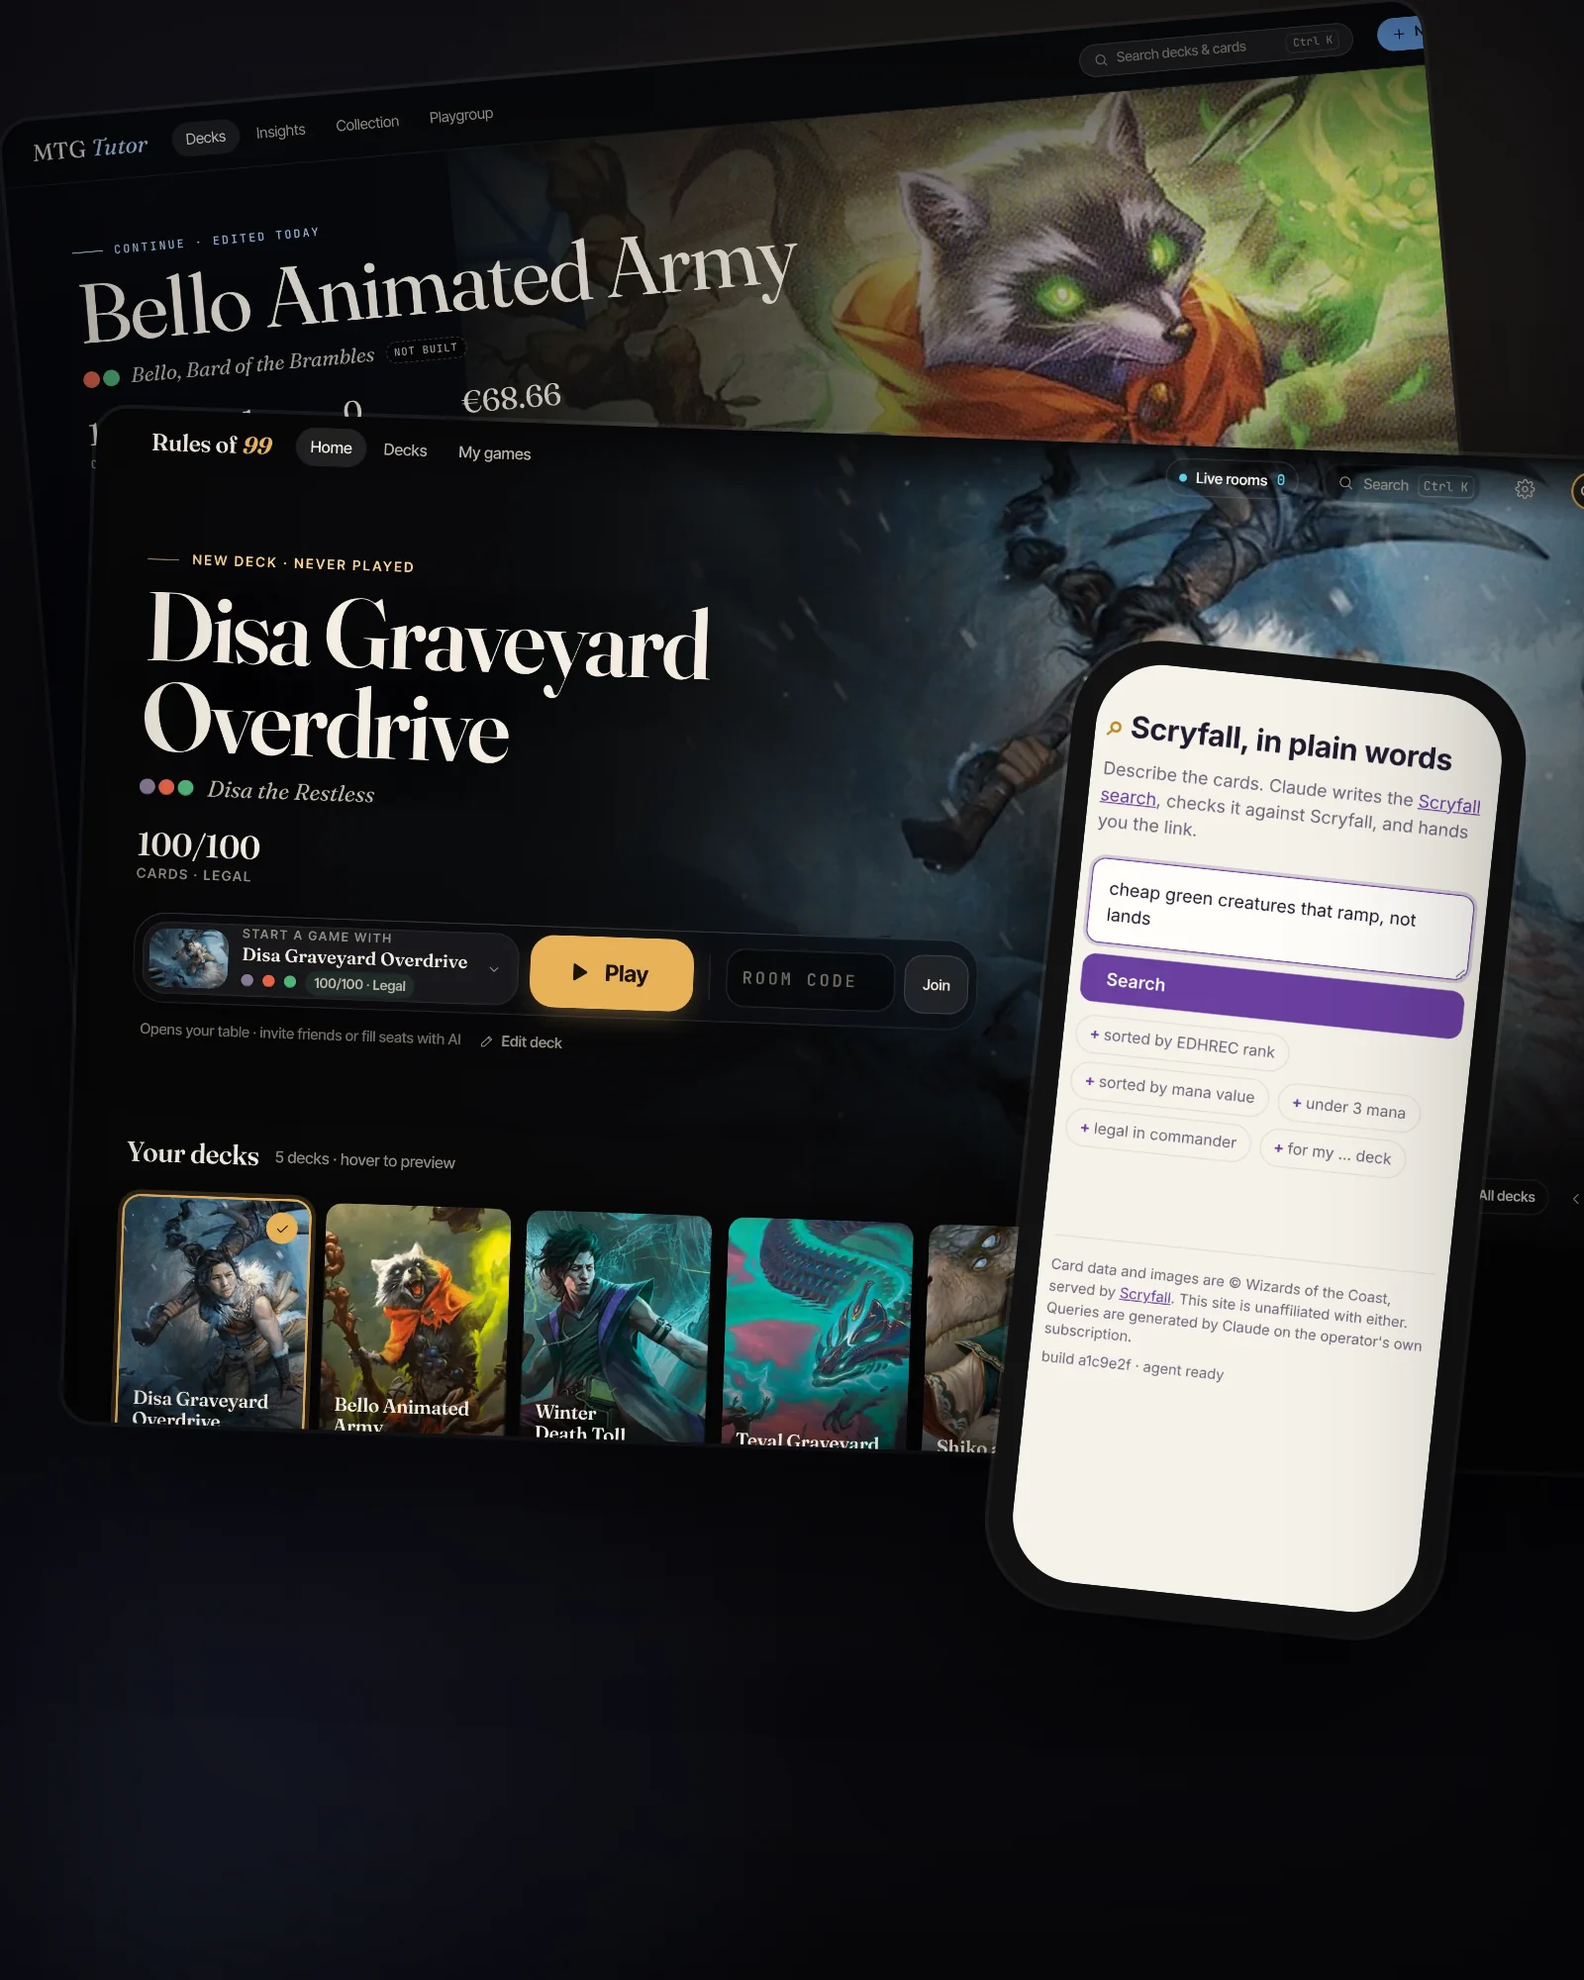
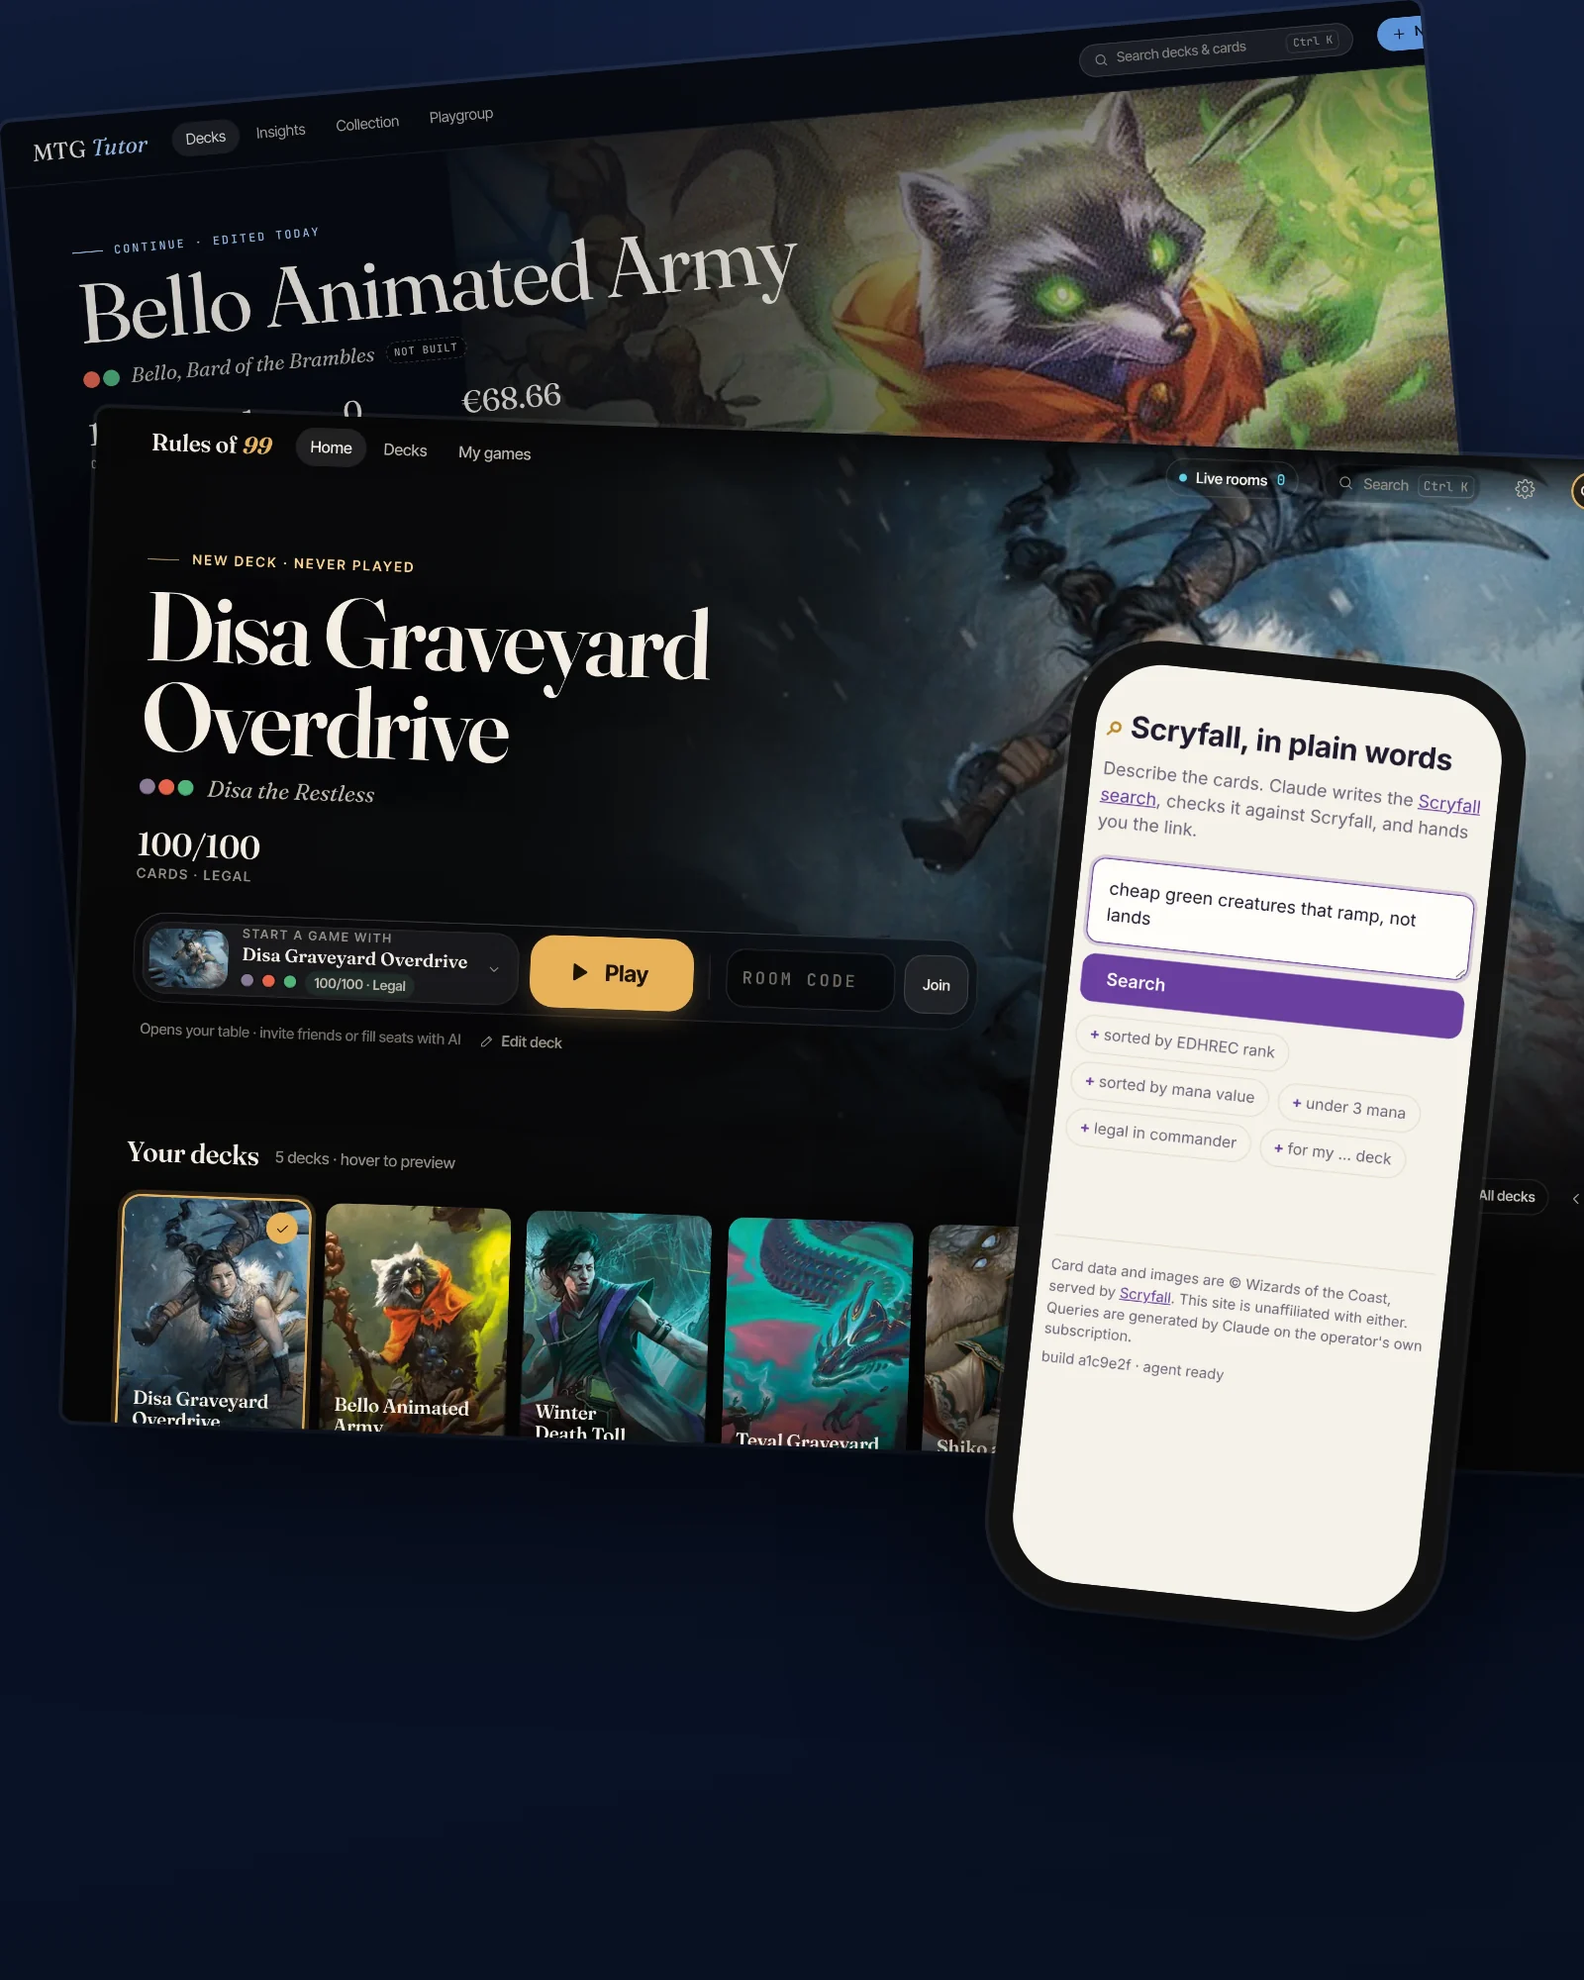
Round 12 (in progress): round-10 styling on the round-11 structure
Claude-Session: https://claude.ai/code/session_01MZiGAcmWGZMW18cgyC5YR7

diff --git a/design/directions/r2-beeld/covers.js b/design/directions/r2-beeld/covers.js
@@ -13,22 +13,18 @@ const FONTS = '<link href="https://fonts.googleapis.com/css2?family=Instrument+S
 const BASE = `
 *{box-sizing:border-box;margin:0}
 html,body{width:100%;height:100%}
-body{font-family:"Schibsted Grotesk",system-ui,sans-serif;color:#f3efe6;overflow:hidden;
-  background:radial-gradient(70% 60% at 70% 20%, rgba(232,180,90,.16), transparent 70%),
-             radial-gradient(60% 60% at 10% 100%, rgba(90,110,180,.14), transparent 70%),
-             linear-gradient(160deg,#16161d 0%,#0c0c11 60%,#08080b 100%)}
-body::after{content:"";position:absolute;inset:0;box-shadow:inset 0 0 220px rgba(0,0,0,.65);pointer-events:none}
+body{font-family:"Schibsted Grotesk",system-ui,sans-serif;color:#f0f3fa;overflow:hidden;
+  background:radial-gradient(70% 60% at 70% 15%, rgba(60,90,170,.22), transparent 70%), linear-gradient(170deg,#0f1b36 0%,#0a1328 60%,#081022 100%)}
 .serif{font-family:"Instrument Serif",Georgia,serif;font-weight:400}
-.node{border:2px solid rgba(243,239,230,.22);background:linear-gradient(180deg,rgba(255,255,255,.07),rgba(255,255,255,.02));border-radius:22px;padding:22px 30px;
-  box-shadow:0 20px 50px rgba(0,0,0,.45), inset 0 1px 0 rgba(255,255,255,.08)}
+.node{border:1.5px solid rgba(240,243,250,.22);background:linear-gradient(180deg,rgba(255,255,255,.07),rgba(255,255,255,.02));border-radius:10px;padding:22px 30px;background:#121f3d}
 .node b{display:block;font-family:"Instrument Serif",Georgia,serif;font-weight:400;font-size:54px;line-height:1}
-.node span{display:block;margin-top:8px;font-size:22px;color:rgba(243,239,230,.62)}
-.gold{border-color:#e8b45a;background:linear-gradient(180deg,rgba(232,180,90,.22),rgba(232,180,90,.06))}
-.gold b{color:#f6cf82}
-.foot{position:absolute;left:64px;bottom:52px;font-size:24px;letter-spacing:.06em;text-transform:uppercase;color:rgba(243,239,230,.55)}
+.node span{display:block;margin-top:8px;font-size:22px;color:rgba(240,243,250,.62)}
+.gold{border-color:#fbc044;background:linear-gradient(180deg,rgba(251,192,68,.14),rgba(251,192,68,.04))}
+.gold b{color:#fbc044}
+.foot{position:absolute;left:64px;bottom:52px;font-size:24px;letter-spacing:.06em;text-transform:uppercase;color:rgba(240,243,250,.55)}
 svg.lines{position:absolute;inset:0;width:100%;height:100%;overflow:visible}
-svg.lines path{fill:none;stroke:#e8b45a;stroke-width:3;stroke-linecap:round;opacity:.85}
-svg.lines path.dim{stroke:rgba(243,239,230,.35);stroke-dasharray:4 10}
+svg.lines path{fill:none;stroke:#fbc044;stroke-width:3;stroke-linecap:round;opacity:.85}
+svg.lines path.dim{stroke:rgba(240,243,250,.35);stroke-dasharray:4 10}
 `;
 
 function doc(body, css) {
@@ -41,8 +37,8 @@ const FLOW = `.wrap{position:absolute;inset:64px 64px 64px;display:flex;flex-dir
 .title{font-size:104px;line-height:.95}
 .row{display:flex;align-items:center}
 .col{display:flex;flex-direction:column;align-items:stretch}
-.c-h{flex:1;height:3px;min-width:40px;background:#e8b45a;opacity:.85}
-.c-v{width:3px;height:36px;background:#e8b45a;opacity:.85;align-self:center}
+.c-h{flex:1;height:3px;min-width:40px;background:#fbc044;opacity:.85}
+.c-v{width:3px;height:36px;background:#fbc044;opacity:.85;align-self:center}
 .node b{font-size:64px}
 .node span{font-size:24px}`;
 function platform(shape) {
@@ -52,7 +48,7 @@ function platform(shape) {
 <div class="row"><div class="node"><b>Commit</b><span>to the app repo</span></div><i class="c-h"></i><div class="node"><b>CI</b><span>build and test</span></div><i class="c-h"></i><div class="node"><b>Registry</b><span>immutable image</span></div><i class="c-h"></i><div class="node gold"><b>Argo CD</b><span>syncs from git</span></div></div>
 <div class="row" style="justify-content:flex-end;gap:40px;margin-top:56px"><div class="node"><b>Acceptance</b><span>release candidates</span></div><div class="node gold"><b>Production</b><span>stable releases</span></div></div>
 </div>
-<p style="font-size:26px;letter-spacing:.08em;text-transform:uppercase;color:rgba(243,239,230,.55)">8 clusters · AWS and Azure · GitOps</p>
+<p style="font-size:26px;letter-spacing:.08em;text-transform:uppercase;color:rgba(240,243,250,.55)">8 clusters · AWS and Azure · GitOps</p>
 </div>`, FLOW + ".foot{display:none}");
   }
   return doc(`<div class="wrap">
@@ -64,15 +60,15 @@ function platform(shape) {
 }
 
 /* --- homelab: three ways in → the laptop (k3s + Home Assistant), no open ports */
-const LAB = FLOW + `.laptop{border:3px solid rgba(243,239,230,.3);border-radius:30px;padding:36px;background:linear-gradient(180deg,rgba(255,255,255,.06),rgba(255,255,255,.01));box-shadow:0 30px 80px rgba(0,0,0,.5);position:relative}
-.laptop::after{content:"";position:absolute;left:-5%;right:-5%;bottom:-24px;height:14px;border-radius:0 0 18px 18px;background:rgba(243,239,230,.22)}
-.lab{font-size:24px;color:rgba(243,239,230,.6);margin-bottom:22px}
+const LAB = FLOW + `.laptop{border:3px solid rgba(240,243,250,.3);border-radius:12px;padding:36px;background:linear-gradient(180deg,rgba(255,255,255,.06),rgba(255,255,255,.01));box-shadow:0 30px 80px rgba(0,0,0,.5);position:relative}
+.laptop::after{content:"";position:absolute;left:-5%;right:-5%;bottom:-24px;height:14px;border-radius:0 0 18px 18px;background:rgba(240,243,250,.22)}
+.lab{font-size:24px;color:rgba(240,243,250,.6);margin-bottom:22px}
 .laptop .node+.node{margin-top:20px}
 .way{font-family:"Instrument Serif",Georgia,serif;font-size:56px;line-height:1}
-.way small{display:block;font-family:"Schibsted Grotesk",sans-serif;font-size:24px;color:rgba(243,239,230,.58);margin-top:8px}
+.way small{display:block;font-family:"Schibsted Grotesk",sans-serif;font-size:24px;color:rgba(240,243,250,.58);margin-top:8px}
 .ways{display:flex;flex-direction:column;gap:46px}
 .shield{display:flex;align-items:center;gap:16px;font-size:30px}
-.shield i{width:46px;height:52px;display:block;background:#e8b45a;clip-path:path("M23 0 46 9v17c0 14-10 22-23 26C10 48 0 40 0 26V9z")}`;
+.shield i{width:46px;height:52px;display:block;background:#fbc044;clip-path:path("M23 0 46 9v17c0 14-10 22-23 26C10 48 0 40 0 26V9z")}`;
 function homelab(shape) {
   const box = `<div class="laptop"><p class="lab">One old laptop · Proxmox</p><div class="node gold"><b>k3s</b><span>15 apps, deployed by Argo CD</span></div><div class="node"><b>Home Assistant</b><span>Zigbee stick passed through</span></div></div>`;
   if (shape === "wide") {
@@ -94,7 +90,7 @@ ${box}
 /* --- MTG: Tutor library behind, Rules of 99 home in front, Scryfall on a phone */
 function mtg(shape, shots) {
   const s = (f) => "file://" + path.join(shots, f);
-  const css = `.shot{position:absolute;border-radius:16px;overflow:hidden;box-shadow:0 40px 90px rgba(0,0,0,.65),0 0 0 2px rgba(255,255,255,.08)}
+  const css = `.shot{position:absolute;border-radius:6px;overflow:hidden;box-shadow:0 40px 90px rgba(0,0,0,.65),0 0 0 2px rgba(255,255,255,.08)}
 .shot img{display:block;width:100%;height:100%;object-fit:cover;object-position:top left}
 .phone{position:absolute;border-radius:44px;padding:12px;background:#111;box-shadow:0 40px 90px rgba(0,0,0,.7),0 0 0 2px rgba(255,255,255,.12)}
 .phone img{display:block;width:100%;height:100%;object-fit:cover;object-position:top;border-radius:34px}`;

diff --git a/design/directions/r2-beeld/site.css b/design/directions/r2-beeld/site.css
@@ -506,27 +506,6 @@ code, pre { font-family: var(--font-mono); font-variant-ligatures: none; }
 .shotgrid .is-phone img { max-width: 220px; }
 
 /* ============================================================ round 11: the Rules of 99 home, translated */
-:root {
-  --surface: oklch(13.5% 0.012 270);         /* near-black with a breath of blue */
-  --surface-raised: oklch(18% 0.014 270);
-  --surface-sunken: oklch(11% 0.01 270);
-  --ink: oklch(95% 0.012 85);                /* warm white */
-  --ink-muted: oklch(78% 0.015 80);
-  --ink-subtle: oklch(64% 0.015 80);
-  --accent: oklch(81% 0.13 78);              /* the gold of the Play button */
-  --accent-ink: oklch(16% 0.02 70);
-  --line: oklch(26% 0.014 270);
-  --line-strong: oklch(44% 0.015 270);
-  --focus: oklch(81% 0.13 78);
-  --dg-bg-1: oklch(17% 0.014 270); --dg-bg-2: oklch(14% 0.012 270);
-  --dg-card: oklch(20% 0.016 270); --dg-card-2: oklch(18% 0.014 270);
-  --dg-stroke: oklch(36% 0.016 270); --dg-dim: oklch(42% 0.016 270);
-}
-html, body { background: var(--surface); }
-body { background: radial-gradient(120% 60% at 50% 0%, oklch(16% 0.014 270), var(--surface) 60%) var(--surface); }
-.dg-card { fill: oklch(19% 0.016 270); }
-.site-header { background: color-mix(in oklch, var(--surface) 80%, transparent); }
-
 /* Buttons */
 .btn-gold { display: inline-flex; align-items: center; gap: 0.5em; min-height: 52px; padding: 0 1.6rem; border-radius: 14px; font-weight: 600; text-decoration: none;
   background: linear-gradient(180deg, oklch(85% 0.12 80), oklch(76% 0.14 72)); color: var(--accent-ink); box-shadow: 0 8px 30px oklch(70% 0.14 72 / 0.28), inset 0 1px 0 oklch(95% 0.06 85 / 0.6);
@@ -633,3 +612,40 @@ body { background: radial-gradient(120% 60% at 50% 0%, oklch(16% 0.014 270), var
   .stage__bg::after { background: linear-gradient(180deg, color-mix(in oklch, var(--surface) 30%, transparent) 0%, color-mix(in oklch, var(--surface) 82%, transparent) 38%, var(--surface) 70%); }
   .stage__kicker::before { display: none; }
 }
+
+/* ============================================================ round 12: round-11 structure, round-10 styling */
+/* Quiet actions */
+.btn-gold, .btn-gold--sm { display: inline-flex; align-items: center; gap: 0.45em; min-height: 44px; padding: 0 1rem; border-radius: 4px; border: 1px solid var(--line-strong);
+  background: transparent; color: var(--ink); font-weight: 500; font-size: var(--t-body); box-shadow: none; text-decoration: none; transition: border-color var(--dur-quick), color var(--dur-quick); }
+.btn-gold:hover, .btn-gold--sm:hover { color: var(--ink); border-color: var(--accent); transform: none; box-shadow: none; }
+.pcard .btn-gold, .btn-gold--sm { border: 0; padding: 0; min-height: 40px; text-decoration: underline; text-decoration-color: var(--line-strong); text-underline-offset: 0.25em; }
+.pcard .btn-gold:hover { color: var(--accent); text-decoration-color: currentColor; }
+.btn-ghost { min-height: 40px; padding: 0; border: 0; background: none; border-radius: 0; text-decoration: underline; text-decoration-color: var(--line-strong); text-underline-offset: 0.22em; }
+.btn-ghost:hover { color: var(--accent); }
+.actions { padding: 0; border: 0; background: none; backdrop-filter: none; border-radius: 0; gap: 10px 22px; }
+.actions__mail { padding: 0; }
+.actions__mail .email__addr { font-weight: 500; }
+
+/* Hero, toned down */
+.stage__kicker { color: var(--ink-subtle); font-weight: 400; letter-spacing: 0; text-transform: none; font-size: var(--t-small); }
+.stage__kicker::before { display: none; }
+.stage__title { text-shadow: none; }
+.stage__role { font-style: normal; font-family: var(--font-sans); font-size: var(--t-lead); font-weight: 500; color: var(--ink); }
+.stage__bg::after { background: linear-gradient(90deg, var(--surface) 0%, color-mix(in oklch, var(--surface) 90%, transparent) 40%, color-mix(in oklch, var(--surface) 45%, transparent) 72%, color-mix(in oklch, var(--surface) 60%, transparent) 100%),
+                                linear-gradient(180deg, transparent 55%, var(--surface) 100%); }
+@media (max-width: 999px) { .stage__bg::after { background: linear-gradient(180deg, color-mix(in oklch, var(--surface) 35%, transparent) 0%, color-mix(in oklch, var(--surface) 85%, transparent) 38%, var(--surface) 70%); } }
+.stats dt { font-size: var(--t-small); font-weight: 400; letter-spacing: 0; text-transform: none; color: var(--ink-subtle); }
+.stats div + div { border-left-color: var(--line); }
+.print { box-shadow: 0 10px 30px oklch(8% 0.04 266 / 0.55); }
+.print:hover, .print.is-lifted { box-shadow: 0 18px 44px oklch(8% 0.04 266 / 0.65); }
+.print.is-lifted { box-shadow: 0 18px 44px oklch(8% 0.04 266 / 0.65), 0 0 0 1px var(--accent); }
+
+/* Cards: small radii, hairlines */
+.cover__link { border-radius: 4px; box-shadow: none; border: 1px solid var(--line); }
+.cover__link::after { background: linear-gradient(180deg, transparent 50%, color-mix(in oklch, var(--surface) 94%, transparent) 86%); }
+.cover__link:hover { transform: none; box-shadow: none; border-color: var(--line-strong); }
+.cover__meta, .pcard__meta, .ph-hero .ph-meta { font-size: var(--t-small); font-weight: 400; letter-spacing: 0; text-transform: none; color: var(--ink-subtle); }
+.pcard__media, .ph-hero { border-radius: 4px; box-shadow: none; border: 1px solid var(--line); }
+.pcard__facts li::marker { color: var(--ink-subtle); }
+.ph-hero__bg::after { background: linear-gradient(0deg, color-mix(in oklch, var(--surface) 96%, transparent) 0%, color-mix(in oklch, var(--surface) 65%, transparent) 38%, transparent 70%); }
+.shotgrid img, .hero-shot img { border-radius: 4px; }

diff --git a/design/directions/r2-beeld/homelab.html b/design/directions/r2-beeld/homelab.html
@@ -10,7 +10,7 @@
 <link href="https://fonts.googleapis.com/css2?family=Instrument+Serif&family=Schibsted+Grotesk:ital,wght@0,400..700;1,400..700&family=Geist+Mono:wght@400;500&display=swap" rel="stylesheet">
 <link rel="stylesheet" href="site.css">
 </head>
-<body style="background: #0c0d12; color: #f3efe6">
+<body style="background: #0a1328; color: #f0f2f7">
 <a class="skip-link" href="#main">Skip to content</a>
 <div class="site">
 <header class="site-header">

diff --git a/design/directions/r2-beeld/mtg.html b/design/directions/r2-beeld/mtg.html
@@ -10,7 +10,7 @@
 <link href="https://fonts.googleapis.com/css2?family=Instrument+Serif&family=Schibsted+Grotesk:ital,wght@0,400..700;1,400..700&family=Geist+Mono:wght@400;500&display=swap" rel="stylesheet">
 <link rel="stylesheet" href="site.css">
 </head>
-<body style="background: #0c0d12; color: #f3efe6">
+<body style="background: #0a1328; color: #f0f2f7">
 <a class="skip-link" href="#main">Skip to content</a>
 <div class="site">
 <header class="site-header">

diff --git a/design/directions/r2-beeld/platform.html b/design/directions/r2-beeld/platform.html
@@ -10,7 +10,7 @@
 <link href="https://fonts.googleapis.com/css2?family=Instrument+Serif&family=Schibsted+Grotesk:ital,wght@0,400..700;1,400..700&family=Geist+Mono:wght@400;500&display=swap" rel="stylesheet">
 <link rel="stylesheet" href="site.css">
 </head>
-<body style="background: #0c0d12; color: #f3efe6">
+<body style="background: #0a1328; color: #f0f2f7">
 <a class="skip-link" href="#main">Skip to content</a>
 <div class="site">
 <header class="site-header">

diff --git a/design/directions/r2-beeld/projects.html b/design/directions/r2-beeld/projects.html
@@ -10,7 +10,7 @@
 <link href="https://fonts.googleapis.com/css2?family=Instrument+Serif&family=Schibsted+Grotesk:ital,wght@0,400..700;1,400..700&family=Geist+Mono:wght@400;500&display=swap" rel="stylesheet">
 <link rel="stylesheet" href="site.css">
 </head>
-<body style="background: #0c0d12; color: #f3efe6">
+<body style="background: #0a1328; color: #f0f2f7">
 <a class="skip-link" href="#main">Skip to content</a>
 <div class="site">
 <header class="site-header">

diff --git a/design/directions/r2-beeld/system.html b/design/directions/r2-beeld/system.html
@@ -15,7 +15,7 @@
   .sw span { display: block; padding: 8px 10px; color: var(--ink-muted); }
 </style>
 </head>
-<body style="background: #0c0d12; color: #f3efe6">
+<body style="background: #0a1328; color: #f0f2f7">
 <div class="site">
 <main class="wrap">
   <header class="ph-head">
